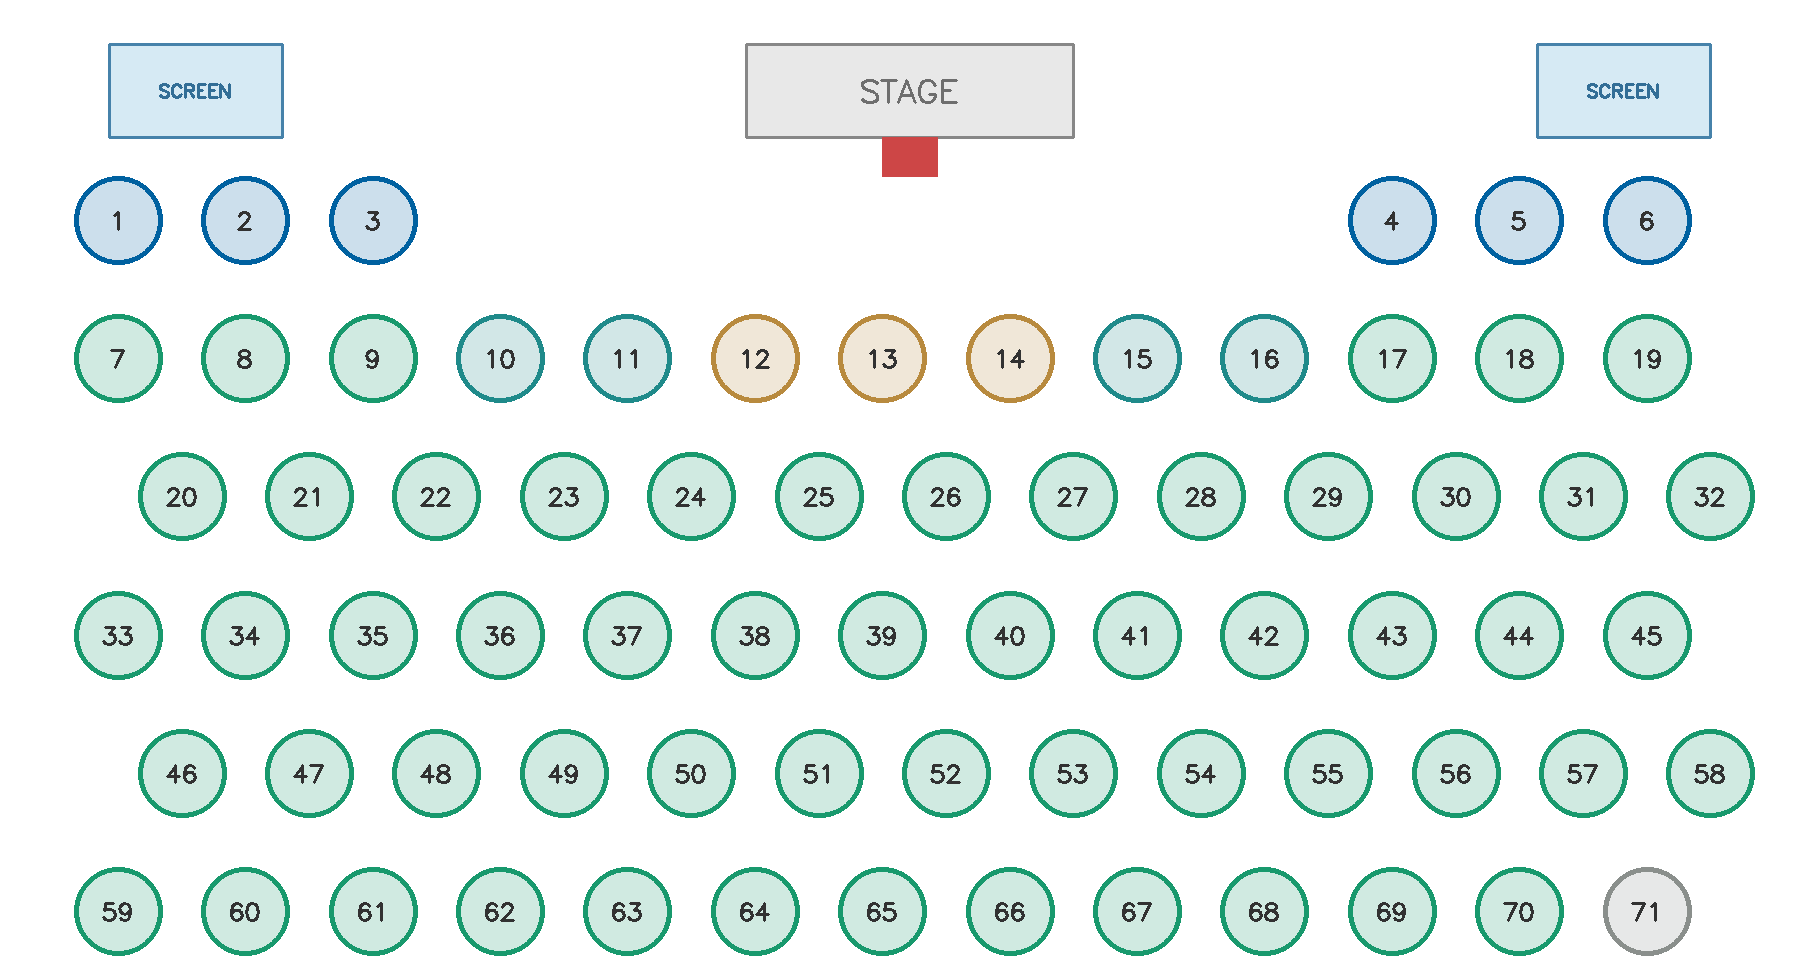
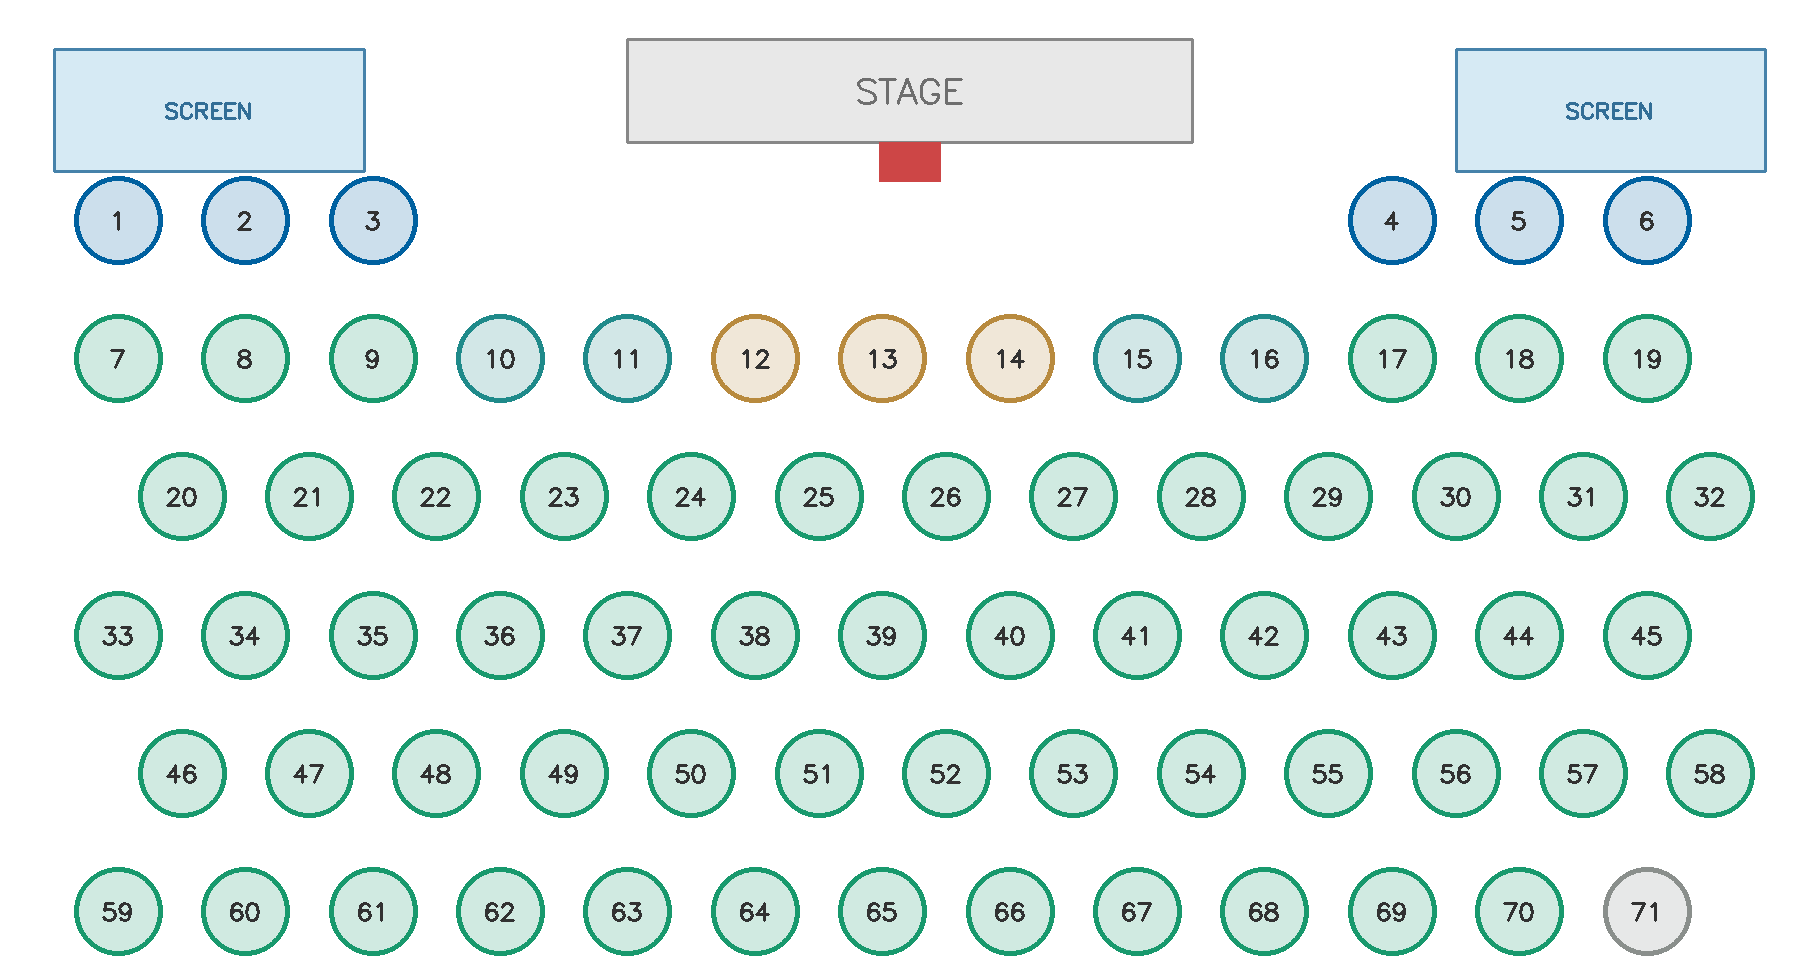
STAGE·스크린 실제 크기 반영, 분류별 색상(컴퍼니체어·본부장), 관리자 버튼명 변경

diff --git a/gen_seatmap.py b/gen_seatmap.py
@@ -32,17 +32,18 @@ for ri in range(6):
     for x in cols:
         pos[num]=(x,ys[ri]); num+=1
 
-# --- 무대(중앙) + 양쪽 스크린 ---
-sy1,sy2=int(.045*H),int(.140*H)
-sx1,sx2=int(.41*W),int(.59*W)
+# --- 무대(중앙, 실제 14.4m 비율로 넓게) + 양쪽 스크린(떨어져서 크게) ---
+sy1,sy2=int(.04*H),int(.145*H)
+sx1,sx2=int(.345*W),int(.655*W)
 cv2.rectangle(cv,(sx1,sy1),(sx2,sy2),(232,232,232),-1)
 cv2.rectangle(cv,(sx1,sy1),(sx2,sy2),(135,135,135),2)
-ctext("STAGE",.5*W,(sy1+sy2)/2,1.05,(110,110,110),2)
-cv2.rectangle(cv,(int(.485*W),sy2),(int(.515*W),int(.18*H)),(70,70,205),-1)  # 레드카펫
-for x1,x2 in [(.06*W,.155*W),(.845*W,.94*W)]:
-    cv2.rectangle(cv,(int(x1),sy1),(int(x2),sy2),(244,234,214),-1)
-    cv2.rectangle(cv,(int(x1),sy1),(int(x2),sy2),(170,130,70),2)
-    ctext("SCREEN",(x1+x2)/2,(sy1+sy2)/2,0.6,(150,110,50),2)
+ctext("STAGE",.5*W,(sy1+sy2)/2,1.15,(110,110,110),2)
+cv2.rectangle(cv,(int(.483*W),sy2),(int(.517*W),int(.185*H)),(70,70,205),-1)  # 레드카펫
+syc1,syc2=int(.05*H),int(.175*H)
+for x1,x2 in [(.03*W,.20*W),(.80*W,.97*W)]:
+    cv2.rectangle(cv,(int(x1),syc1),(int(x2),syc2),(244,234,214),-1)
+    cv2.rectangle(cv,(int(x1),syc1),(int(x2),syc2),(170,130,70),2)
+    ctext("SCREEN",(x1+x2)/2,(syc1+syc2)/2,0.72,(150,110,50),2)
 
 # --- 테이블 원 (균일 반지름) ---
 R=42

diff --git a/build.py b/build.py
@@ -660,7 +660,8 @@ function renderSeatTool(){
   }
   const q=($("#poolSearch").value||"").trim().toLowerCase();
   const pool=DATA.roster.filter(p=>!a[p.id]);
-  const NONMEM=["강사","본사","일본·RGA","협회","컴플라이언스","운영진"];
+  const NONMEM=["강사","본사","본부장","컴퍼니체어","운영진","협회","일본·RGA"];
+  const TYPECOL={"강사":"#7B5EA7","본사":"#0061A0","본부장":"#c98a2a","컴퍼니체어":"#b5527e","운영진":"#1f8a8a","협회":"#5a8f3a","일본·RGA":"#c0563a"};
   const gkey=p=>(p.type&&p.type!=="회원")?p.type:p.branch;
   const groups={};pool.forEach(p=>{const k=gkey(p);(groups[k]=groups[k]||[]).push(p)});
   const keys=[...NONMEM.filter(k=>groups[k]), ...Object.keys(groups).filter(k=>!NONMEM.includes(k)).sort((x,y)=>x.localeCompare(y,'ko'))];
@@ -668,10 +669,11 @@ function renderSeatTool(){
   keys.forEach(br=>{
     let ppl=groups[br]; if(q)ppl=ppl.filter(p=>(p.name+p.branch+(p.type||'')+(p.bonbu||'')).toLowerCase().includes(q));
     if(!ppl.length)return;
-    const isNM=NONMEM.includes(br);
-    const g=ce("div");g.innerHTML=`<div class="pgh"${isNM?' style="color:var(--blue)"':''}><span>${isNM?'◆ '+br:br}</span><span>${ppl.length}</span></div>`;const wrap=ce("div");
+    const isNM=NONMEM.includes(br), col=TYPECOL[br];
+    const g=ce("div");g.innerHTML=`<div class="pgh"${col?` style="color:${col}"`:''}><span>${isNM?'◆ '+br:br}</span><span>${ppl.length}</span></div>`;const wrap=ce("div");
     ppl.forEach(p=>{
       const c=ce("span","pchip"+(seatSel===p.id?" sel":""));c.textContent=p.name;c.draggable=true;c.dataset.pid=p.id;
+      if(col&&seatSel!==p.id){c.style.borderColor=col;c.style.color=col;c.style.background="#fff";}
       c.onclick=()=>{seatSel=(seatSel===p.id?null:p.id);renderSeatTool();};
       c.addEventListener("dragstart",e=>e.dataTransfer.setData("pid",p.id));
       wrap.appendChild(c);
@@ -818,7 +820,7 @@ function goTab(id){
 const tb=$("#tabbar");
 TABS.forEach(([id,label,cnt])=>{const b=ce("button");b.dataset.t=id;b.innerHTML=label+(cnt?` <span class="b">${cnt()}</span>`:"");if(id==="overview")b.classList.add("on");if(id==="budget")b.style.display="none";b.onclick=()=>goTab(id);tb.appendChild(b);});
 // 예산은 관리자 전용 — 평소 숨김, 자물쇠 버튼으로 비번 입력 시 노출
-const admBtn=ce("button");admBtn.className="tabadmin";admBtn.textContent="🔒 예산";
+const admBtn=ce("button");admBtn.className="tabadmin";admBtn.textContent="🔒 관리자";
 admBtn.onclick=()=>{
   if(budUnlocked){goTab("budget");return;}
   const pw=prompt("관리자 비밀번호를 입력하세요");if(pw===null)return;